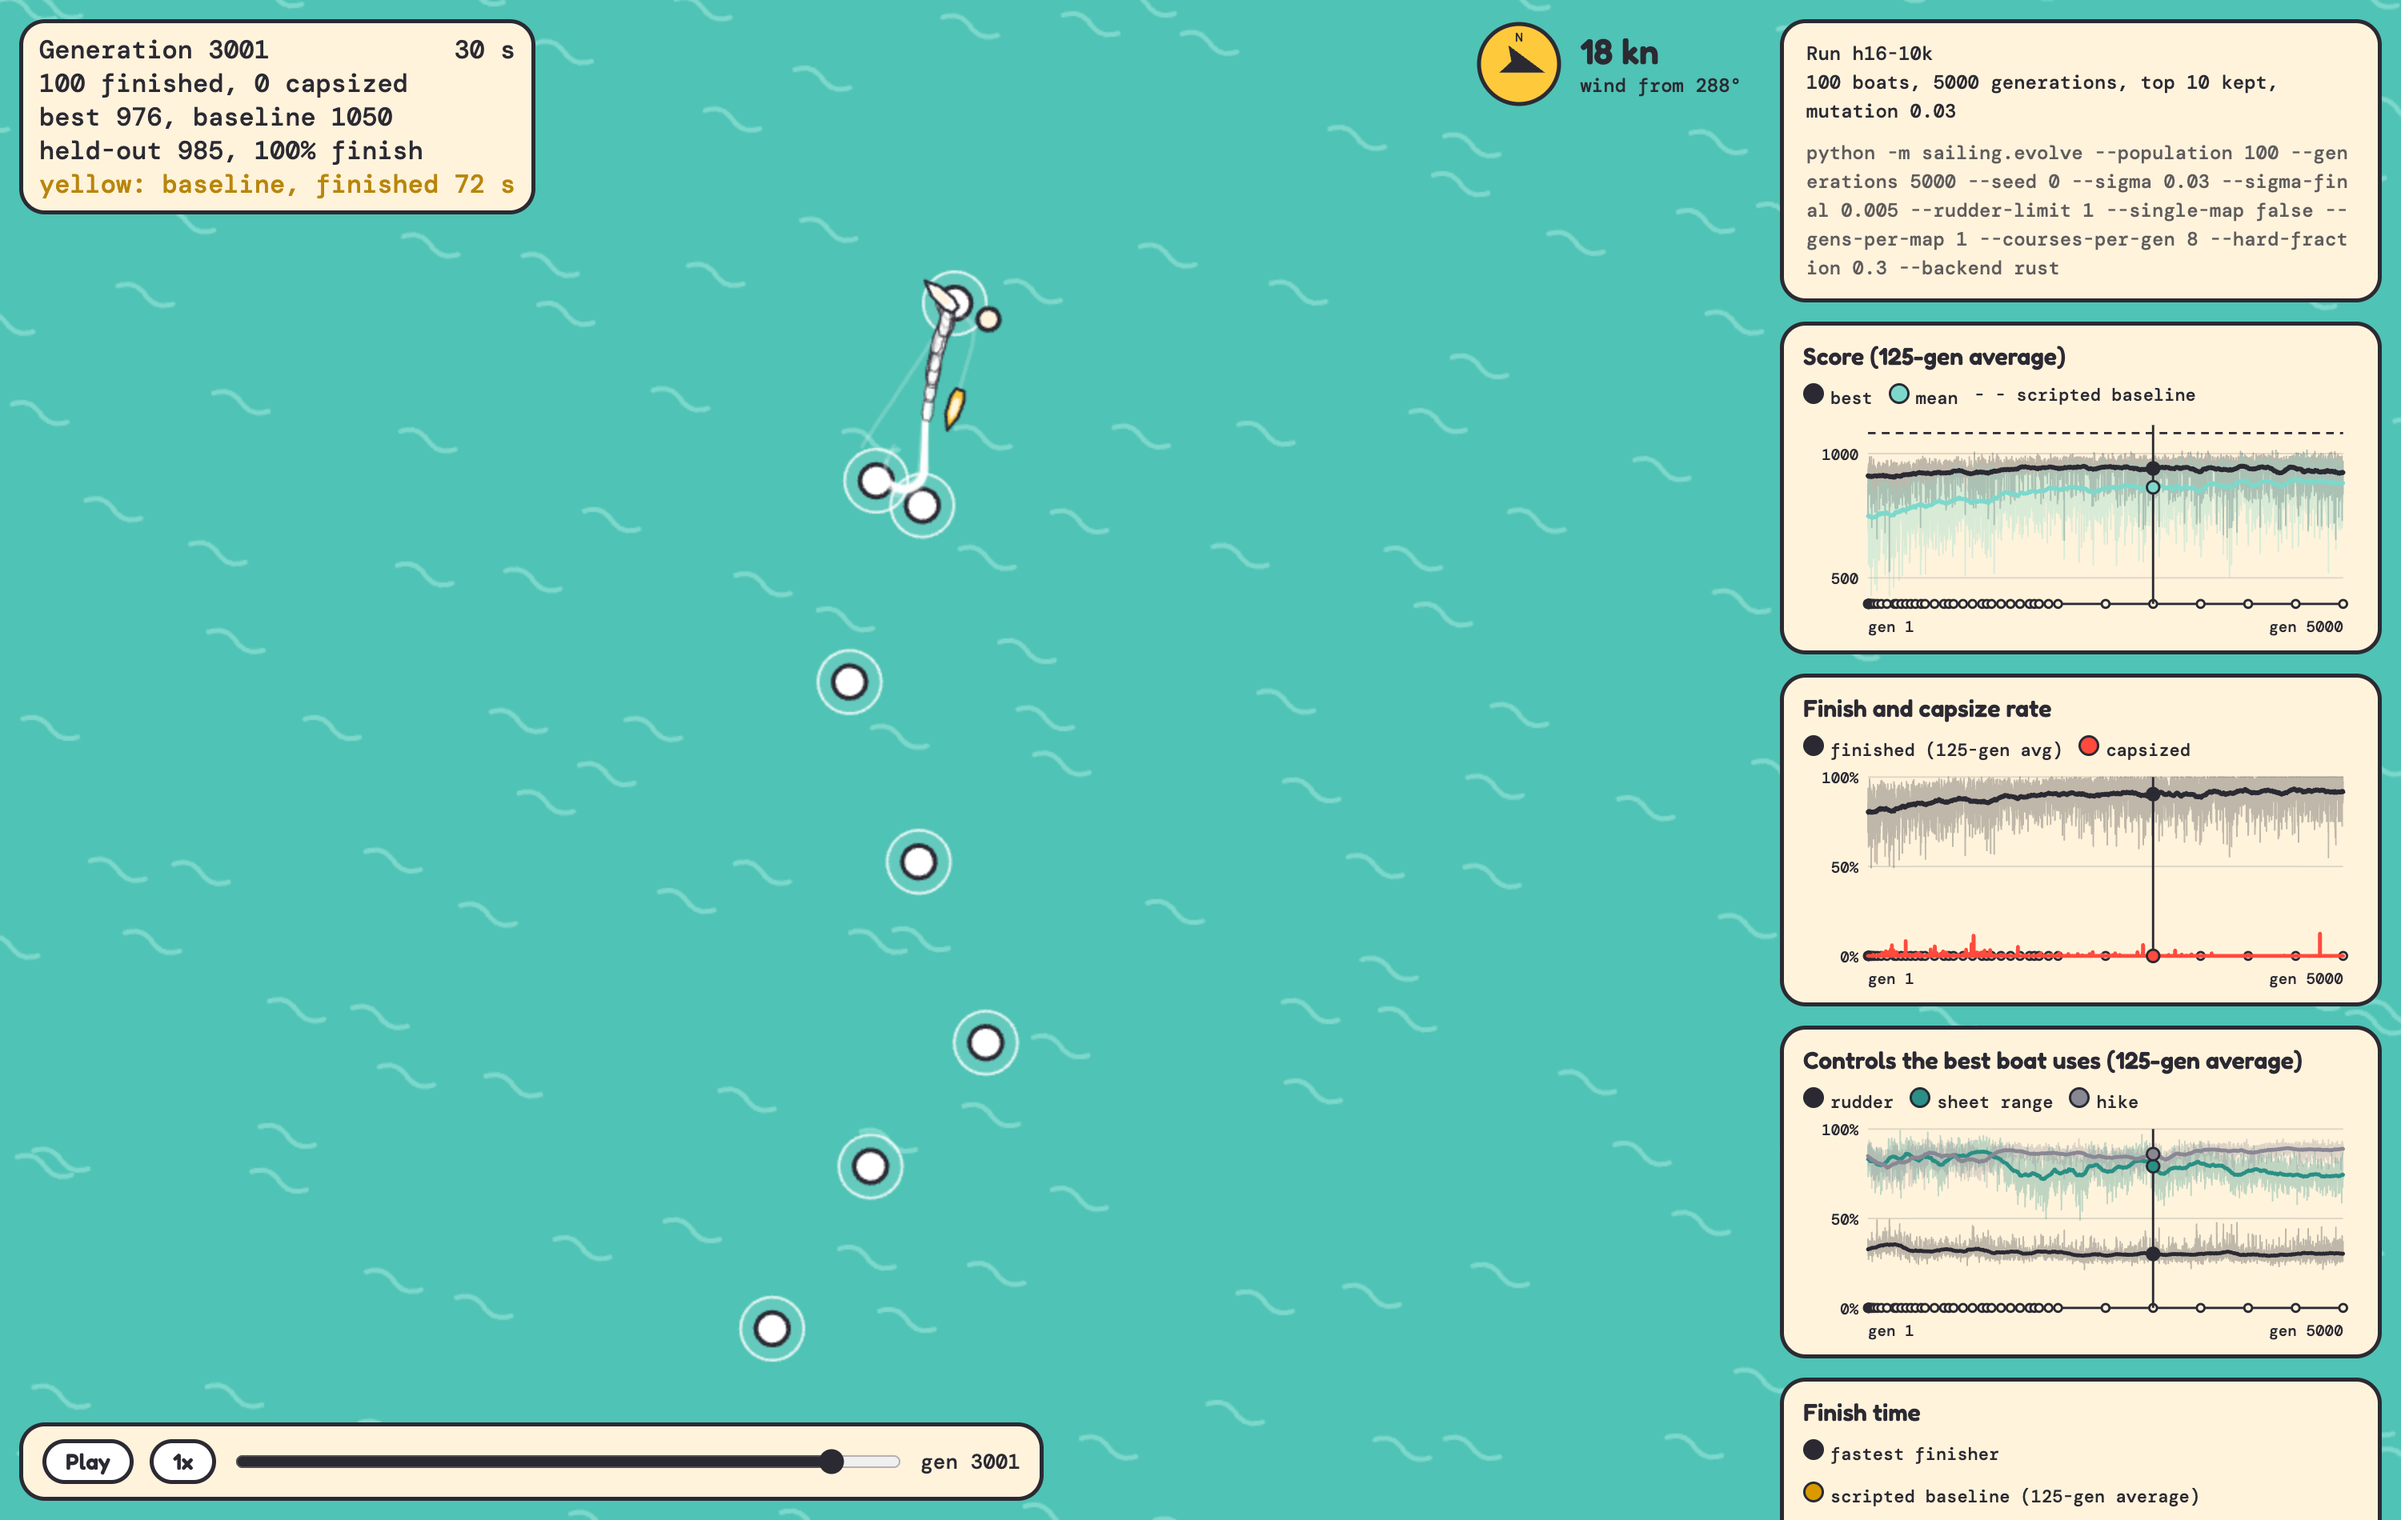
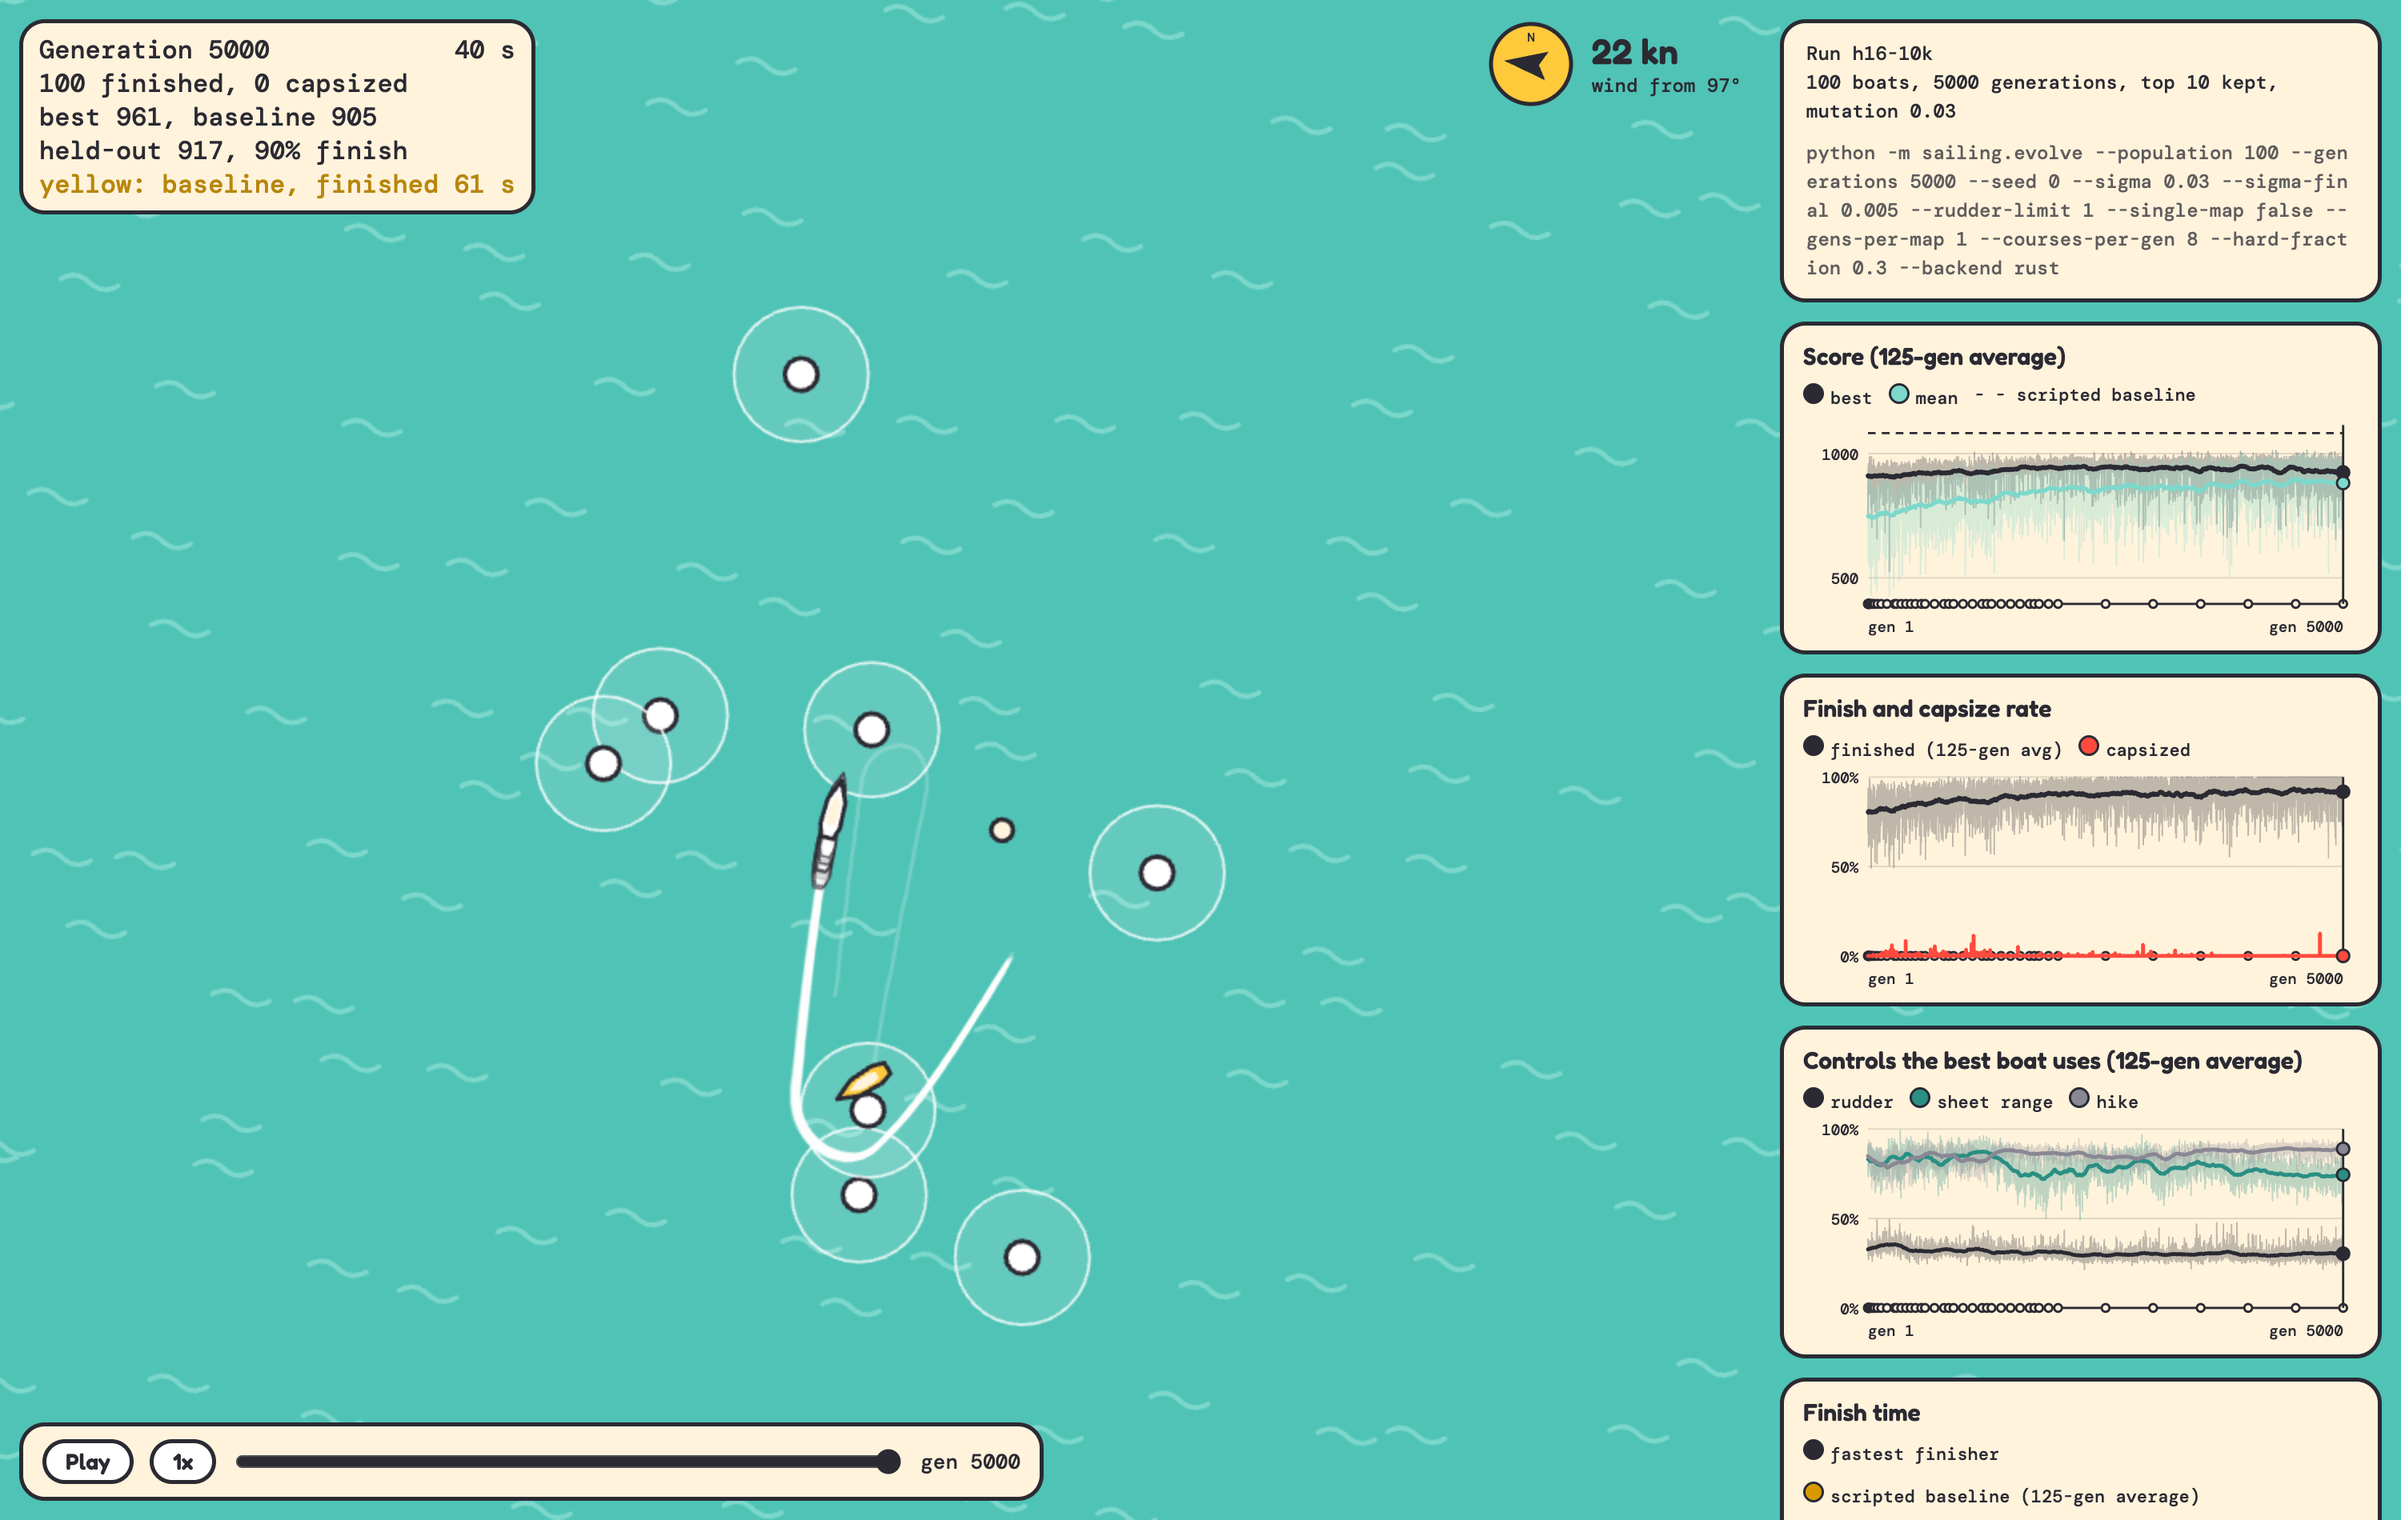
README: fix flow diagram and close-hauled figure, new Training page screenshot, rudder drawn in the physics sketch

diff --git a/python/scripts/readme_figures.py b/python/scripts/readme_figures.py
@@ -84,6 +84,7 @@ def physics(out):
     a.set_xlim(-3.2, 4.4); a.set_ylim(-3.4, 4.2); a.set_aspect("equal"); a.axis("off")
     hull = np.array([[0, 2.1], [0.7, 0.6], [0.7, -1.8], [-0.7, -1.8], [-0.7, 0.6]])
     a.add_patch(plt.Polygon(hull, fc="#e8edf2", ec=INK, lw=1.5))
+    a.plot([0, 0.15], [-1.8, -2.45], color=INK, lw=3, solid_capstyle="round")  # rudder blade at the stern
     boom = 0.30
     tip = np.array([-np.sin(boom) * 2.0, -np.cos(boom) * 2.0]) + [0, 0.1]
     a.plot([0, tip[0]], [0.1, tip[1]], color=INK, lw=3)
@@ -96,7 +97,7 @@ def physics(out):
     arrow(a, 2.4, 2.2, -1.1, -1.1, BLUE, "apparent wind", 2.05, 0.5)
     a.text(3.4, 0.95, "(true wind minus\nboat velocity)", color=BLUE, fontsize=8.5, ha="center", va="center")
     arrow(a, 0.0, -0.3, 0.0, 1.3, GREEN, "drive", -0.5, 0.15, 2.5)
-    arrow(a, 0.0, -0.3, -1.5, 0.0, ORANGE, "side force\n(resisted by centreboard)", -0.2, -0.65, 2.5)
+    arrow(a, 0.0, -0.3, -1.5, 0.0, ORANGE, "side force\n(resisted by\ncentreboard)", -0.35, -0.85, 2.5)
     a.annotate("", xy=(0.0, -2.2), xytext=(0.0, -3.0), arrowprops=dict(arrowstyle="-|>", color=INK, lw=1.5))
     a.text(0.0, -3.2, "heading", ha="center", fontsize=9.5, color=INK)
     a.annotate("rudder (yaw moment,\nweather helm)", xy=(0, -1.85), xytext=(-2.4, -2.3), fontsize=9.5,

diff --git a/README.md b/README.md
@@ -26,8 +26,7 @@ The yellow line is the apparent wind, the arrow around the boat points to the ne
 ## What it does
 
 - Each boat is a 16-unit network that reads 34 inputs (boat state, and every mark still to round) and outputs rudder, sheet and hike (leaning out).
-- Every generation all 100 boats sail the same random courses (8 legs each) in a random wind (8 to 16 m/s, any direction). The best 10 % carry over unchanged and the rest are mutated copies of the best 30 %.
-- Every generation each boat is scored on 8 freshly drawn courses, and the run is 5,000 generations.
+- Every generation all 100 boats sail the same 8 freshly drawn random courses (8 legs each), each in its own random wind (8 to 16 m/s, any direction), and a boat is scored on its mean. The best 10 % carry over unchanged and the rest are mutated copies of the best 30 %. The run is 5,000 generations, so 40,000 courses.
 - Score rewards progress, mark bonuses and a fast finish, and charges a time cost and a capsize penalty. The rudder has its full deflection (`--rudder-limit` can cap it).
 
 ## The boat
@@ -45,7 +44,7 @@ The simulator is a deterministic Rust core (`crates/sailsim`) for a single-hande
 - **Heel:** a righting moment from a hiking-crew curve. Past 70° of heel the boat capsizes and the run ends.
 - **Controls:** rudder, sheet and hike (how far the sailor leans out). These are the three network outputs.
 
-At 12 kn of wind the model gives about 5.3 kn and a VMG of 3.4 kn at 44° close-hauled, and 6.8 kn on a beam reach. Published figures for the class are 5.4 kn, 3.75 kn and 6.5 kn. Light-air VMG is about 20 % low. Several parameters are tuned without a source and the design doc lists them: [`docs/plans/2026-10-14-dinghy-sim-design.md`](docs/plans/2026-10-14-dinghy-sim-design.md), with the source check in [`docs/research/`](docs/research/2026-10-14-dinghy-physics-validation.md). There are no waves, gusts or wind shifts in these runs.
+At 12 kn of wind the model gives about 5.3 kn and a VMG of 3.4 kn at 46° close-hauled, and 6.8 kn on a beam reach. Published figures for the class are 5.4 kn, 3.75 kn and 6.5 kn. Light-air VMG is about 20 % low. Several parameters are tuned without a source and the design doc lists them: [`docs/plans/2026-10-14-dinghy-sim-design.md`](docs/plans/2026-10-14-dinghy-sim-design.md), with the source check in [`docs/research/`](docs/research/2026-10-14-dinghy-physics-validation.md). There are no waves, gusts or wind shifts in these runs.
 
 ## How it learns
 
@@ -59,9 +58,9 @@ There is no gradient and no value function. The learner is a plain evolution str
 - **Held-out check:** each generation the best boat also sails 10 fixed unseen courses and the old figure 8. This is the generalisation curve in the results below.
 
 ```
-random weights ─► sail the course ─► score ─► keep top 10, mutate top 30 ─► next generation
-        ▲                                                                        │
-        └────────────── new course and wind every 10 generations ◄──────────────┘
+random weights ─► sail the courses ─► score ─► keep top 10, mutate top 30 ─► next generation
+        ▲                                                                           │
+        └────────────── new courses and winds every generation ◄───────────────────┘
 ```
 
 The loop is `python/sailing/evolve.py`. Episodes run in parallel across processes through a Gymnasium environment (`python/sailing/env.py`) over the same Rust code as the game. A scripted baseline sailor, not trained, is the reference the scores are compared with.
@@ -72,7 +71,7 @@ The loop is `python/sailing/evolve.py`. Episodes run in parallel across processe
 
 ![The Training page, all 100 boats mid-run](docs/img/midrun.png)
 
-*The game's Training page at generation 3001, 30 s into the run: all 100 boats at once with wakes, rounding the marks, and the training graphs on the right. Open it yourself with `/training.html?run=h16-10k&gen=3001&t=30`.*
+*The game's Training page at the last generation (5000), 40 s into the run: the 100 boats with wakes, rounding the marks (by now they sail almost the same line, so they overlap), and the training graphs on the right. Open it yourself with `/training.html?run=h16-10k&gen=5000&t=40`.*
 
 | Generations | Finish rate (training courses) | Finish rate (best boat, unseen courses) | Score (best boat, unseen courses) |
 |---|---|---|---|
@@ -109,7 +108,7 @@ Regenerate the figures above from a finished run:
 ```sh
 "/Applications/Google Chrome.app/Contents/MacOS/Google Chrome" --headless=new --use-angle=swiftshader --enable-unsafe-swiftshader \
     --force-device-scale-factor=2 --window-size=1500,950 --virtual-time-budget=15000 \
-    --screenshot=docs/img/midrun.png "http://localhost:5173/training.html?run=h16-10k&gen=3001&t=30"
+    --screenshot=docs/img/midrun.png "http://localhost:5173/training.html?run=h16-10k&gen=5000&t=40"
 ```
 
 ## License
